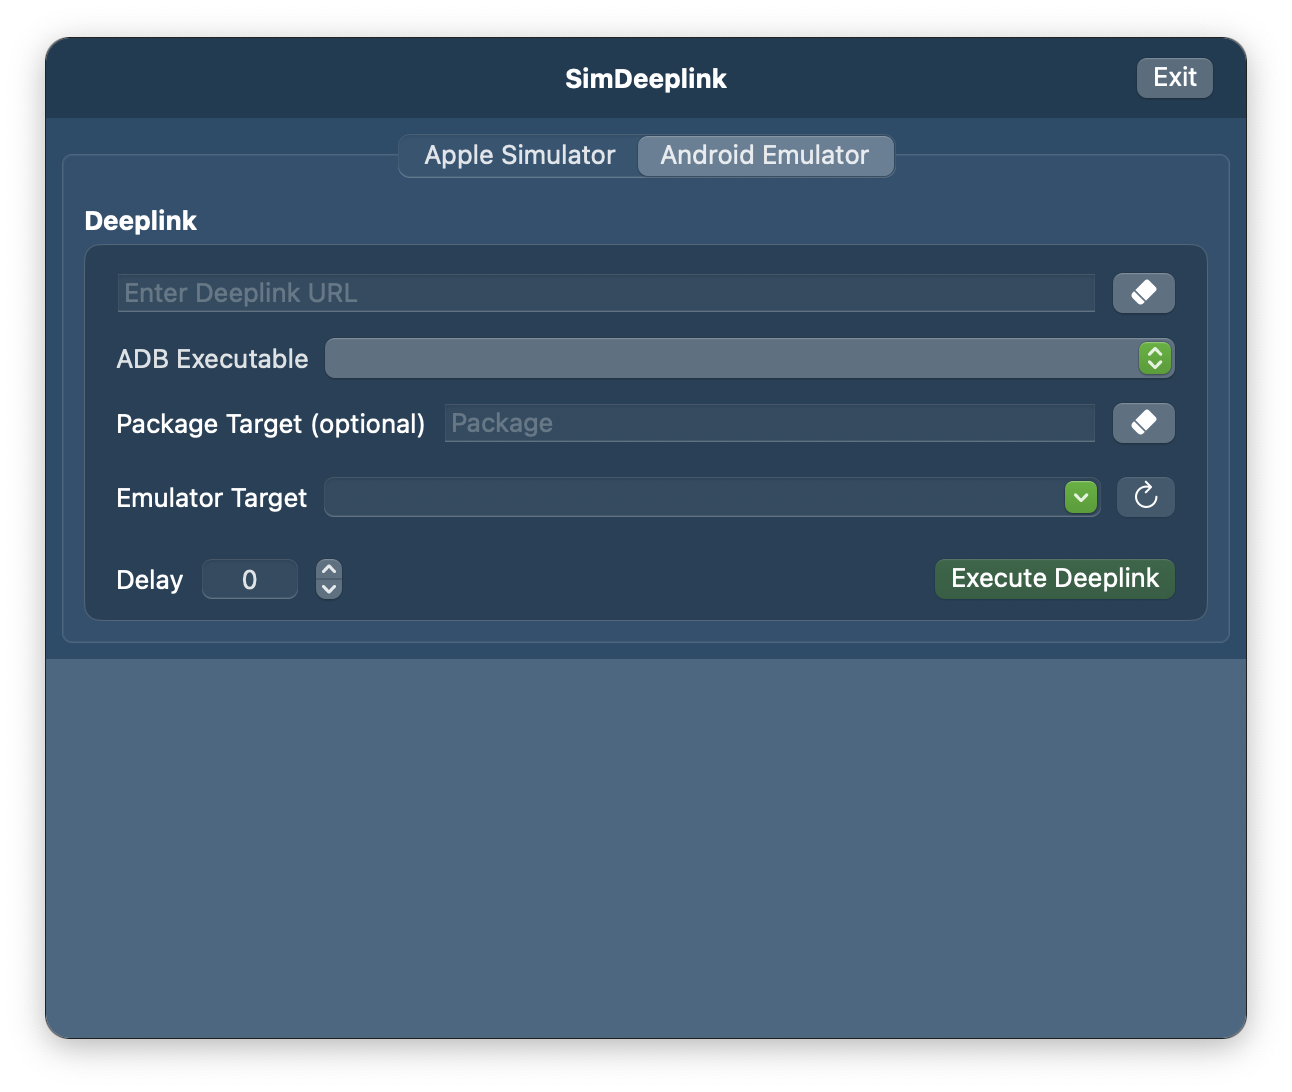
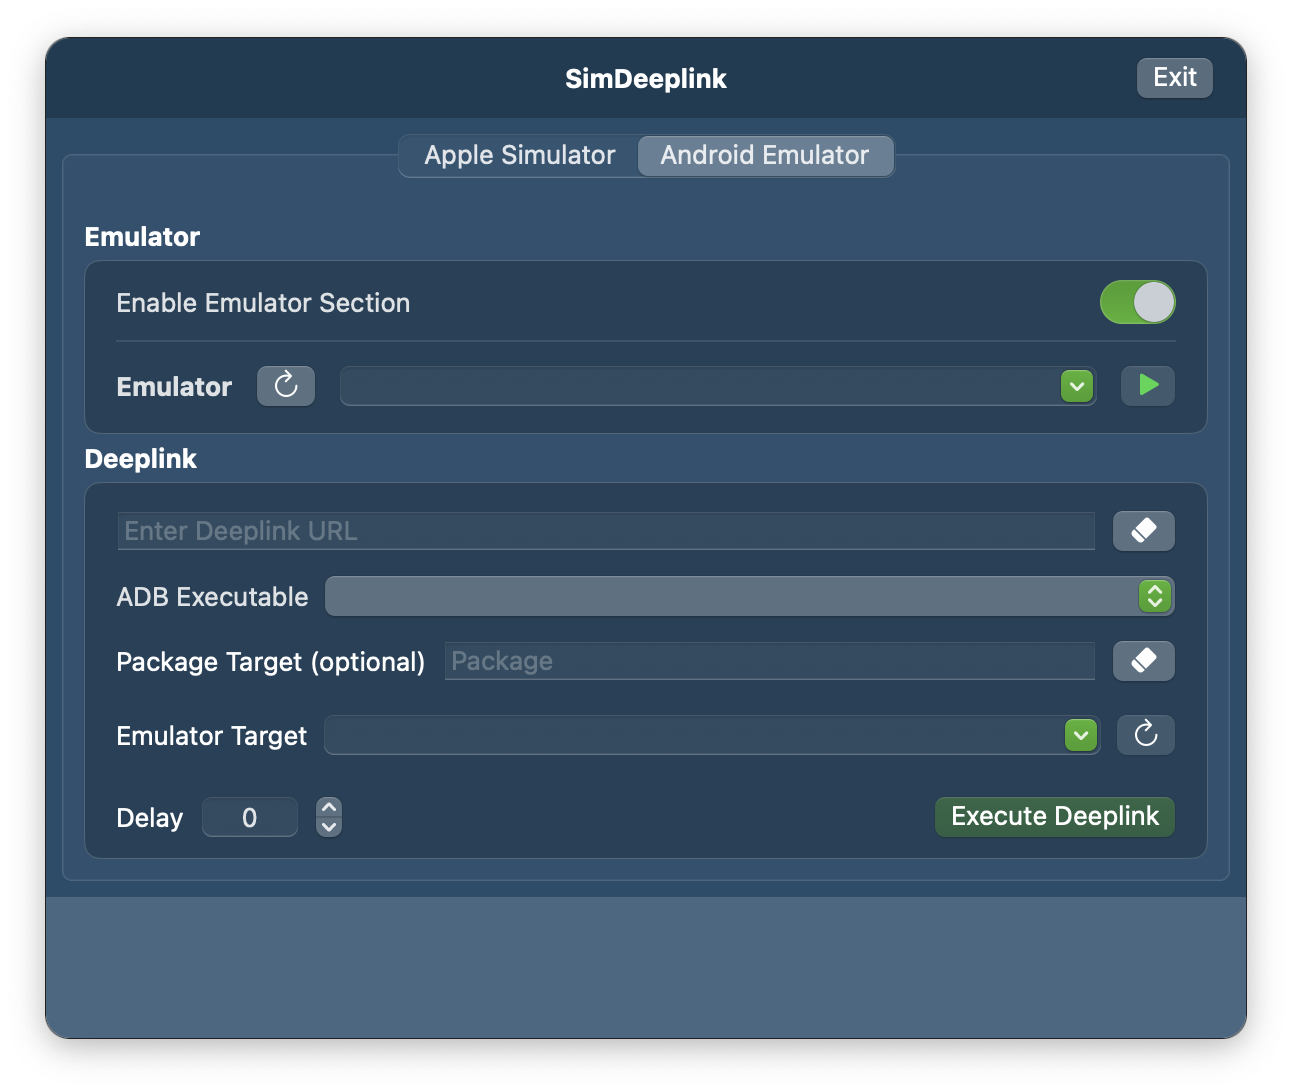
feat: add emulator section

Changed region(s): [[0.031, 0.1868, 0.9907, 0.8407]]

diff --git a/SimDeeplink/Module/Emulator/EmulatorWatcher.swift b/SimDeeplink/Module/Emulator/EmulatorWatcher.swift
@@ -2,7 +2,7 @@
 //  EmulatorWatcher.swift
 //  SimDeeplink
 //
-//  Created by Alif Phincon on 21/10/25.
+//  Created by Alif on 21/10/25.
 //
 
 import SwiftUI
@@ -11,13 +11,24 @@ import Combine
 final class EmulatorWatcher: ObservableObject {
     
     @Published var adbPaths: [String] = []
+    @Published var emulators: [Emulator] = []
     @Published var bootedEmulators: [Emulator] = []
     
     init () {
-        adbPaths = fetchADBPaths()
+        DispatchQueue.global().async {
+            let result = self.fetchADBPaths()
+            DispatchQueue.main.async {
+                self.adbPaths = result
+            }
+        }
     }
     
-    func parseADBDevices(_ output: String) -> [Emulator] {
+    func fetchOfflineEmulators() {
+        let data = self.getOfflineAndroidAVDs()
+        emulators = data.map { $0.toEmulator() }
+    }
+    
+    private func parseADBDevices(_ output: String) -> [Emulator] {
         let lines = output
             .split(separator: "\n")
             .map(String.init)
@@ -35,7 +46,7 @@ final class EmulatorWatcher: ObservableObject {
         }
     }
     
-    func fetchADBPaths() -> [String] {
+    private func fetchADBPaths() -> [String] {
         let process = Process()
         let pipe = Pipe()
         process.standardOutput = pipe
@@ -133,6 +144,171 @@ final class EmulatorWatcher: ObservableObject {
             self.bootedEmulators = emulators
         }
     }
+
+    private func getOfflineAndroidAVDs() -> [OfflineEmulator] {
+        guard let avdManager = findAVDManagerPath() else { return [] }
+        let output = shell([avdManager, "list", "avd"])
+
+        var emulators: [OfflineEmulator] = []
+
+        var currentName: String?
+        var device: String?
+        var path: String?
+        var basedOn: String?
+        var tagAbi: String?
+        var skin: String?
+        var sdcard: String?
+        var snapshot: String?
+
+        func appendCurrent() {
+            if let name = currentName {
+                let api = makeApiDescription(basedOn: basedOn, tagAbi: tagAbi)
+                let emulator = OfflineEmulator(
+                    name: name,
+                    device: device ?? "Unknown",
+                    path: path ?? "",
+                    apiLevel: api,
+                    skin: skin ?? "",
+                    sdcard: sdcard ?? "",
+                    snapshot: snapshot ?? ""
+                )
+                emulators.append(emulator)
+            }
+        }
+
+        for line in output.components(separatedBy: .newlines) {
+            let trimmed = line.trimmingCharacters(in: .whitespaces)
+
+            if trimmed.starts(with: "Name: ") {
+                currentName = trimmed.replacingOccurrences(of: "Name: ", with: "")
+            } else if trimmed.starts(with: "Device:") {
+                device = trimmed.replacingOccurrences(of: "Device:", with: "").trimmingCharacters(in: .whitespaces)
+            } else if trimmed.starts(with: "Path:") {
+                path = trimmed.replacingOccurrences(of: "Path:", with: "").trimmingCharacters(in: .whitespaces)
+            } else if trimmed.starts(with: "Based on:") {
+                basedOn = trimmed.replacingOccurrences(of: "Based on:", with: "").trimmingCharacters(in: .whitespaces)
+            } else if trimmed.starts(with: "Tag/ABI:") {
+                tagAbi = trimmed.replacingOccurrences(of: "Tag/ABI:", with: "").trimmingCharacters(in: .whitespaces)
+            } else if trimmed.starts(with: "Skin:") {
+                skin = trimmed.replacingOccurrences(of: "Skin:", with: "").trimmingCharacters(in: .whitespaces)
+            } else if trimmed.starts(with: "Sdcard:") {
+                sdcard = trimmed.replacingOccurrences(of: "Sdcard:", with: "").trimmingCharacters(in: .whitespaces)
+            } else if trimmed.starts(with: "Snapshot:") {
+                snapshot = trimmed.replacingOccurrences(of: "Snapshot:", with: "").trimmingCharacters(in: .whitespaces)
+            } else if trimmed.starts(with: "---------") || trimmed.isEmpty {
+                appendCurrent()
+                currentName = nil
+                device = nil
+                path = nil
+                basedOn = nil
+                tagAbi = nil
+                skin = nil
+                sdcard = nil
+                snapshot = nil
+            }
+        }
+
+        // Append the last AVD block if it wasn't followed by a separator
+        appendCurrent()
+        return emulators
+    }
+
+    private func makeApiDescription(basedOn: String?, tagAbi: String?) -> String {
+        var desc = ""
+        if let based = basedOn {
+            desc += based
+        }
+        if let tag = tagAbi {
+            if !desc.isEmpty { desc += " " }
+            desc += "(\(tag))"
+        }
+        return desc.isEmpty ? "Unknown" : desc
+    }
+    
+    private func shell(_ args: [String]) -> String {
+        let process = Process()
+        let pipe = Pipe()
+        process.standardOutput = pipe
+        process.standardError = pipe
+        process.executableURL = URL(fileURLWithPath: "/bin/zsh")
+        process.arguments = ["-c", args.joined(separator: " ")]
+        do { try process.run() } catch { return "" }
+        process.waitUntilExit()
+        let data = pipe.fileHandleForReading.readDataToEndOfFile()
+        return String(data: data, encoding: .utf8) ?? ""
+    }
+    
+    private func findAVDManagerPath() -> String? {
+        let sdkPaths = [
+            ProcessInfo.processInfo.environment["ANDROID_SDK_ROOT"],
+            "\(NSHomeDirectory())/Library/Android/sdk",
+            "\(NSHomeDirectory())/Android/Sdk"
+        ].compactMap { $0 }
+        
+        for base in sdkPaths {
+            let path = "\(base)/cmdline-tools/latest/bin/avdmanager"
+            if FileManager.default.isExecutableFile(atPath: path) { return path }
+            if let dirs = try? FileManager.default.contentsOfDirectory(atPath: "\(base)/cmdline-tools") {
+                for dir in dirs where dir != "latest" {
+                    let candidate = "\(base)/cmdline-tools/\(dir)/bin/avdmanager"
+                    if FileManager.default.isExecutableFile(atPath: candidate) {
+                        return candidate
+                    }
+                }
+            }
+        }
+        return nil
+    }
+    
+    private func findEmulatorPath() -> String? {
+        // Check environment variables first (Android Studio usually sets this)
+        if let androidHome = ProcessInfo.processInfo.environment["ANDROID_HOME"] {
+            let path = "\(androidHome)/emulator/emulator"
+            if FileManager.default.fileExists(atPath: path) {
+                return path
+            }
+        }
+
+        if let sdkRoot = ProcessInfo.processInfo.environment["ANDROID_SDK_ROOT"] {
+            let path = "\(sdkRoot)/emulator/emulator"
+            if FileManager.default.fileExists(atPath: path) {
+                return path
+            }
+        }
+
+        // Common fallback locations
+        let fallbackPaths = [
+            "\(NSHomeDirectory())/Library/Android/sdk/emulator/emulator", // macOS default
+            "/Users/\(NSUserName())/Library/Android/sdk/emulator/emulator",
+            "/usr/local/share/android-sdk/emulator/emulator",
+            "/opt/android-sdk/emulator/emulator"
+        ]
+
+        for path in fallbackPaths where FileManager.default.fileExists(atPath: path) {
+            return path
+        }
+
+        return nil
+    }
+
+    
+    func bootEmulator(avdName: String) -> String {
+        // find emulator binary
+        guard let emulatorPath = findEmulatorPath() else { return "Emulator not found" }
+
+        // run emulator detached
+        let process = Process()
+        process.executableURL = URL(fileURLWithPath: emulatorPath)
+        process.arguments = ["-avd", avdName]
+
+        do {
+            try process.run()
+            return "Booting \(avdName)..."
+        } catch {
+            return "Failed to boot: \(error.localizedDescription)"
+        }
+    }
+
     
     func runDeeplink(url: String, adbPath: String, packageTarget: String? = nil, emulatorTarget: String? = nil) -> String {
         let process = Process()

diff --git a/SimDeeplink/Module/Emulator/EmulatorView.swift b/SimDeeplink/Module/Emulator/EmulatorView.swift
@@ -2,7 +2,7 @@
 //  EmulatorView.swift
 //  SimDeeplink
 //
-//  Created by Alif Phincon on 21/10/25.
+//  Created by Alif on 21/10/25.
 //
 
 import SwiftUI
@@ -15,11 +15,48 @@ struct EmulatorView: View {
     @State private var delayTask: Task<Void, Never>? = nil
     @State private var selectedADB: String = ""
     @State private var selectedTargetEmulator: Emulator? = nil
+    @State private var isEmulatorSectionEnabled = false
     
     var onMessageChange: (String) -> Void
     
     var body: some View {
         VStack(alignment: .leading, spacing: 4) {
+            
+            VStack(alignment: .leading, spacing: 4) {
+                Text("Emulator")
+                    .font(.headline)
+                    .foregroundColor(.white)
+                
+                HStack {
+                    VStack {
+                        HStack {
+                            Text("Enable Emulator Section")
+                            
+                            Spacer()
+                            
+                            Toggle("", isOn: $isEmulatorSectionEnabled)
+                                .foregroundStyle(.white)
+                                .toggleStyle(.switch)
+                            
+                        }
+                        if isEmulatorSectionEnabled {
+                            Divider()
+                            EmulatorSectionView(watcher: watcher)
+                                .padding(.vertical, 4)
+                        }
+                    }
+                }
+                .padding(.horizontal, 16)
+                .padding(.vertical, 10)
+                .background(
+                    RoundedRectangle(cornerRadius: 8)
+                        .stroke(Color.white.opacity(0.2), lineWidth: 1)
+                        .background(Color.black.opacity(0.2))
+                        .cornerRadius(8)
+                )
+            }
+            .padding(.top, 8)
+            
             Text("Deeplink")
                 .font(.headline)
                 .foregroundColor(.white)

diff --git a/SimDeeplink/Module/Emulator/EmulatorSectionView.swift b/SimDeeplink/Module/Emulator/EmulatorSectionView.swift
@@ -1,0 +1,49 @@
+//
+//  EmulatorSectionView.swift
+//  SimDeeplink
+//
+//  Created by Alif on 22/10/25.
+//
+
+import SwiftUI
+
+struct EmulatorSectionView: View {
+    @ObservedObject var watcher: EmulatorWatcher
+    @State private var hasStarted = false
+    @State private var selectedEmulator: Emulator?
+
+    var body: some View {
+        HStack(alignment: .center, spacing: 12) {
+            Text("Emulator").font(.headline)
+            
+            Button(action: {
+                watcher.fetchOfflineEmulators()
+            }) {
+                Image(systemName: "arrow.clockwise")
+                    .foregroundStyle(.white)
+            }
+            
+            AndroidEmulatorComboBox(
+                selectedEmulator: Binding(
+                    get: { selectedEmulator ?? nil },
+                    set: { newValue in
+                        selectedEmulator = watcher.emulators.first { $0 == newValue }
+                    }
+                ),
+                items: $watcher.emulators
+            )
+            
+            Button(action: {
+                DispatchQueue.global().async {
+                    if let name = selectedEmulator?.name {
+                        _ = watcher.bootEmulator(avdName: name)
+                    }
+                }
+            }) {
+                Image(systemName: "play.fill")
+                    .foregroundStyle(.green)
+            }
+            .disabled(selectedEmulator == nil)
+        }
+    }
+}

diff --git a/SimDeeplink/Module/Emulator/EmulatorComboBox.swift b/SimDeeplink/Module/Emulator/EmulatorComboBox.swift
@@ -15,6 +15,25 @@ struct Emulator: Identifiable, Equatable {
     let isOnline: Bool
 }
 
+struct OfflineEmulator: Identifiable, Equatable {
+    let id = UUID()
+    let name: String
+    let device: String
+    let path: String
+    let apiLevel: String
+    let skin: String
+    let sdcard: String
+    let snapshot: String
+    
+    func toEmulator() -> Emulator {
+        Emulator(
+            name: self.name,
+            serial: "",
+            isOnline: false
+        )
+    }
+}
+
 struct AndroidEmulatorComboBox: NSViewRepresentable {
     @Binding var selectedEmulator: Emulator?
     @Binding var items: [Emulator]

diff --git a/SimDeeplink/Module/Emulator/BootedEmulatorView.swift b/SimDeeplink/Module/Emulator/BootedEmulatorView.swift
@@ -2,7 +2,7 @@
 //  BootedEmulatorView.swift
 //  SimDeeplink
 //
-//  Created by Alif Phincon on 21/10/25.
+//  Created by Alif on 21/10/25.
 //
 
 import SwiftUI
